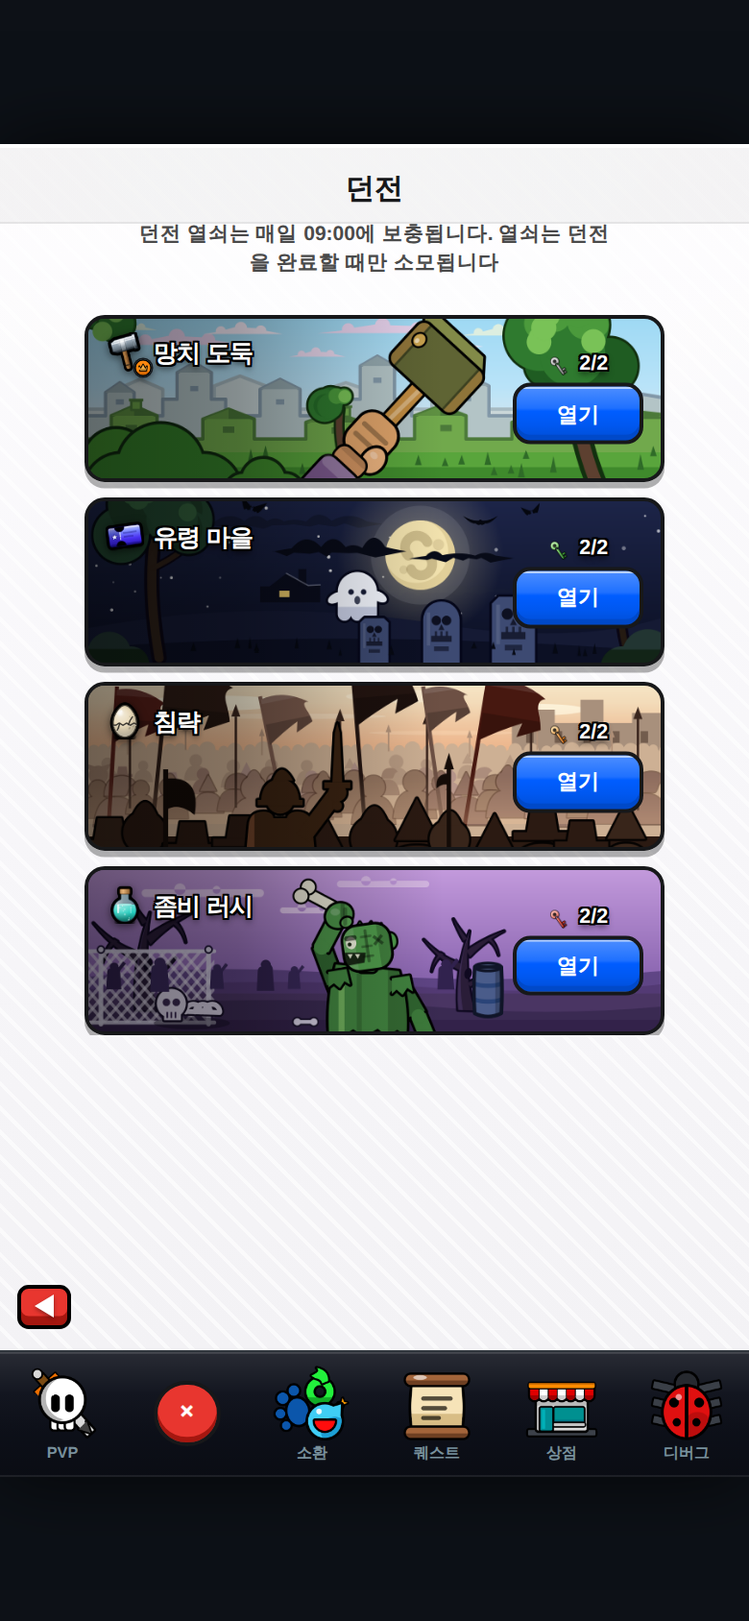
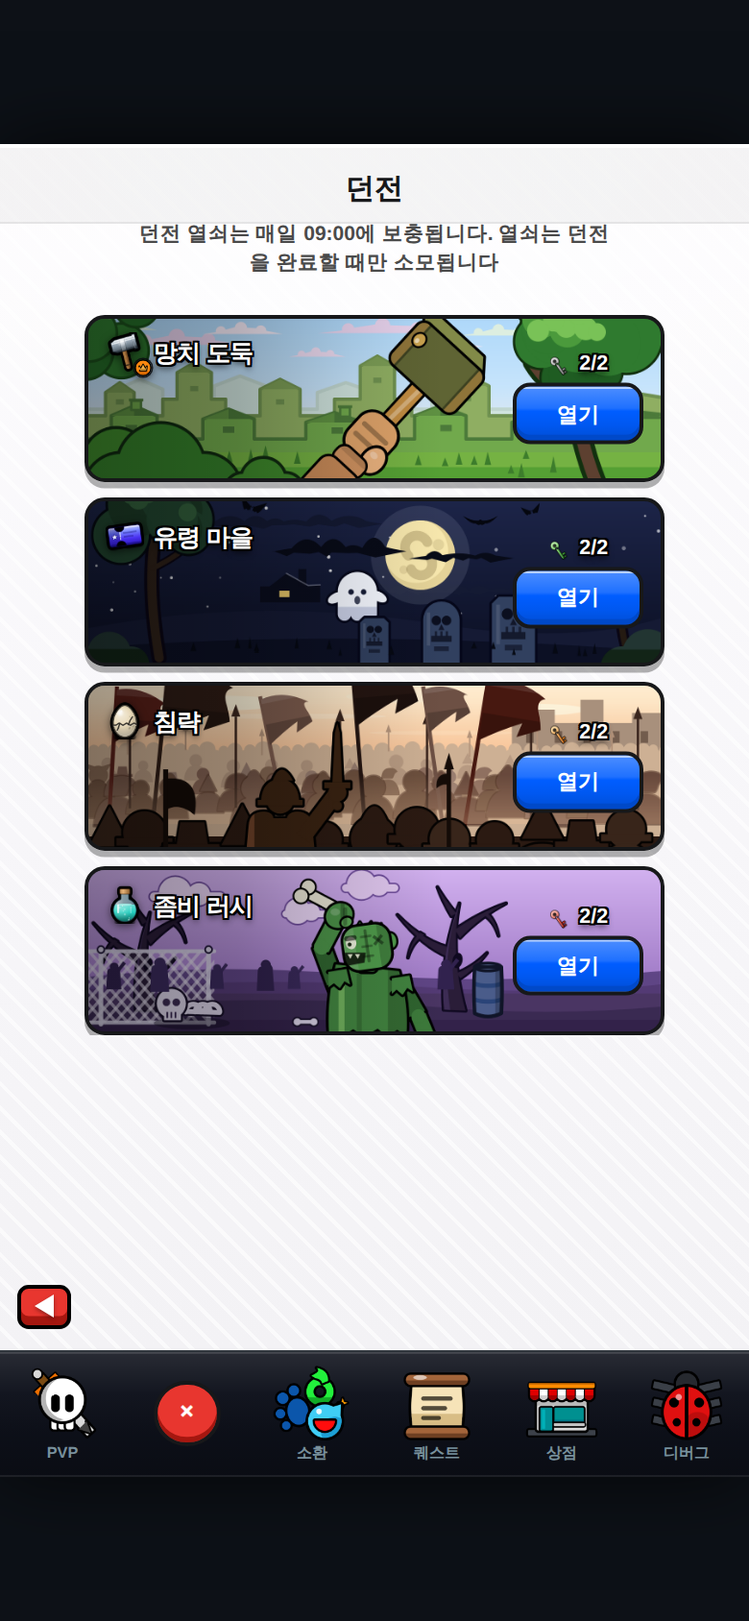
던전 행 R4 비평(70/64) 교집합 반영 — 1행 스카이라인 초록 복귀(원경 헤이즈+중경 올리브, '회색=다른 게임' 2인 치명)+하늘·잔디 채도 상향+주먹 옆 소형 나무 삭제+보라 소매→맨팔, 2행 달 방사광 삭제(플랫 셀)+묘비 한 단 침강, 3행 피치 하늘 고대비 복원+중경 2단 어둡게+전경 둥근 투구 돔(kind6, '삼각=산맥' 해소), 4행 라벤더 파스텔 하늘+구름 합집합 키라인(감김 통일로 관통선 해소)+우측 고목 앵커 확대, 배너 스크림 .46→.36

diff --git a/web/js/icongen.js b/web/js/icongen.js
@@ -3681,7 +3681,8 @@ IconGen._genderSym = function (ctx, S, female) {
        ('망치가 수직으로 박힌 정지 구도 + 손이 없다'). */
     G.draw.dg_hammer = function (ctx, S) {
         const W = S * AR, H = S, R = rnd(11);
-        sky(ctx, W, H, '#9ed9f4', '#dff2ff');
+        /* R4 비평가 2인 공통 '하늘 탁함'(원본 실측 181,214,251): 채도·명도 한 단 위로 */
+        sky(ctx, W, H, '#aed8fa', '#e8f5ff');
         /* 구름 — 납작한 타원 하나면 '분홍 스티커'로 읽힌다(비평가 6차): 혹 3~4개를 겹친 뭉게
            윤곽 + 아래는 평평하게. 원본의 분홍-라벤더 구름 줄. */
         const cloud = (cx, cy, cw, chh, c) => {
@@ -3719,12 +3720,16 @@ IconGen._genderSym = function (ctx, S, female) {
         /* 원경 연회 열(3차 재채점 교집합 ⓒ — '건물 층이 하나로 세어진다'): 청회 열 **뒤**에 한 단
            밝은 연회 열을 깔아 스카이라인을 2단으로 겹친다 — 청회 열의 골 사이(y0.60 부근)로
            비쳐 대기원근 층이 선다. 지붕 경사·높이는 청회 열과 어긋나게. */
+        /* R4 비평가 2인 공통 [치명] '회색 스카이라인 = 다른 게임'(원본 실측 87,152,73 초록 성벽):
+           10차의 '원경 한색(청회)' 결정을 뒤집는다 — 원경 열은 하늘에 녹아드는 옅은 청록 헤이즈로
+           낮추고(내부 윤곽선이 안 보이게 스트로크를 채움과 한 끗 차이로), 중경 열은 올리브그린으로
+           복귀시켜 화면의 지배색을 초록으로 되돌린다. */
         town([[-0.02, 0.56], [0.05, 0.56], [0.05, 0.44], [0.09, 0.38], [0.13, 0.44], [0.13, 0.56],
         [0.22, 0.56], [0.22, 0.42], [0.265, 0.36], [0.31, 0.42], [0.31, 0.56],
         [0.40, 0.56], [0.40, 0.46], [0.45, 0.40], [0.50, 0.46], [0.50, 0.56],
         [0.60, 0.56], [0.60, 0.40], [0.645, 0.34], [0.69, 0.40], [0.69, 0.56],
         [0.79, 0.56], [0.79, 0.44], [0.845, 0.38], [0.90, 0.44], [0.90, 0.56], [1.02, 0.56]],
-            '#c9d6d8', '#a7bac2');
+            '#cfe3dd', '#c0d6cf');
         town([[-0.02, 0.60], [0.03, 0.60], [0.03, 0.46], [0.055, 0.40], [0.08, 0.46], [0.08, 0.60],
         [0.13, 0.60], [0.13, 0.50], [0.155, 0.50], [0.155, 0.34], [0.185, 0.28], [0.215, 0.34], [0.215, 0.50], [0.24, 0.50], [0.24, 0.60],
         [0.30, 0.60], [0.30, 0.44], [0.335, 0.38], [0.37, 0.44], [0.37, 0.60],
@@ -3732,14 +3737,13 @@ IconGen._genderSym = function (ctx, S, female) {
         [0.63, 0.60], [0.63, 0.42], [0.665, 0.36], [0.70, 0.42], [0.70, 0.60],
         [0.76, 0.60], [0.76, 0.48], [0.80, 0.42], [0.84, 0.48], [0.84, 0.60],
         [0.90, 0.60], [0.90, 0.50], [0.95, 0.46], [1.02, 0.50]],
-            '#b3c4c6', '#8298a8');   /* 10차 2인 공통: 원경 열은 아예 한색(청회) — 근경 초록과 색상군까지 갈라 3층을 세운다 */
-        /* 근청회 열 지붕 2톤 + 창(R2 A2·B2 공통 '회색 스카이라인 = 담장/무대 배경막' — 지붕·벽
-           분리와 창이 없으면 건물 판정이 안 선다. 초록 열과 같은 처방을 이 열에도 적용). */
+            '#8fae62', '#6f9150');   /* R4: 중경 열 올리브그린 복귀(원본 정합 — 2인 치명 '회색=다른 게임'. 병렬 세션 R3 의 '담장 판독' 처방(지붕 2톤+창)은 아래에 올리브 팔레트로 이식해 병합) */
+        /* 중경 열 지붕 2톤 + 창(병렬 R3: '지붕·벽 분리와 창이 없으면 건물 판정이 안 선다') */
         [[0.03, 0.055, 0.08, 0.46, 0.40], [0.155, 0.185, 0.215, 0.34, 0.28], [0.30, 0.335, 0.37, 0.44, 0.38],
         [0.475, 0.505, 0.535, 0.30, 0.24], [0.63, 0.665, 0.70, 0.42, 0.36], [0.76, 0.80, 0.84, 0.48, 0.42]].forEach(([lx, px, rx2, by, py]) =>
-            fill(ctx, '#93a7ad', () => { ctx.moveTo(W * lx, H * by); ctx.lineTo(W * px, H * py); ctx.lineTo(W * rx2, H * by); }));
+            fill(ctx, '#7b9c55', () => { ctx.moveTo(W * lx, H * by); ctx.lineTo(W * px, H * py); ctx.lineTo(W * rx2, H * by); }));
         [[0.048, 0.50], [0.178, 0.42], [0.328, 0.50], [0.498, 0.37], [0.655, 0.48], [0.792, 0.52]].forEach(([wx, wy]) =>
-            fill(ctx, '#8298a8', () => ctx.rect(W * wx, H * wy, W * 0.014, H * 0.032)));
+            fill(ctx, '#6f9150', () => ctx.rect(W * wx, H * wy, W * 0.014, H * 0.032)));
         town([[-0.02, 0.74], [0.04, 0.74], [0.04, 0.60], [0.08, 0.54], [0.12, 0.60], [0.12, 0.74],
         [0.20, 0.74], [0.20, 0.62], [0.245, 0.56], [0.29, 0.62], [0.29, 0.74],
         [0.38, 0.74], [0.38, 0.64], [0.43, 0.58], [0.48, 0.64], [0.48, 0.74],
@@ -3766,34 +3770,14 @@ IconGen._genderSym = function (ctx, S, female) {
             ctx.strokeRect(W * cx, H * (cy - 0.055), W * 0.017, H * 0.055);
             fill(ctx, '#4c7a3a', () => ctx.rect(W * (cx - 0.004), H * (cy - 0.068), W * 0.025, H * 0.016));
         });
-        /* 중경 나무 한 그루(잔여 결함 ⓓ — 오클루전 한 겹): 마을 지붕선 **앞**에 서서 건물 일부를
-           가린다 — 겹침이 없으면 스카이라인·지면이 무대 배경막처럼 분리돼 보인다(8차 지적).
-           좌반부 휘도(title-ink)를 안 깎게 x 0.64W(오른쪽 절반), 캐노피는 지붕선(0.54~0.62H)에 걸치는
-           높이만. 뒤이어 그리는 ground(0.82H)가 뿌리를 덮어 접지는 자연히 해결된다. */
-        (() => {
-            /* 이번 런 비평가 B '망치에 눌려 찌그러진 나무'(탱전시): 0.645W 는 망치 머리(0.55~0.67W)
-               바로 밑이라 줄기가 머리에서 삐져나온 것처럼 읽혔다 — 0.44W 로 이동(주먹 왼쪽,
-               스카이라인 골 오클루전은 유지). 좌반부 휘도는 105 로 여유가 커서 안전. */
-            const tx = W * 0.44;
-            [[H * 0.040 + H * 0.026, '#12300f'], [H * 0.040, '#5d4030']].forEach(([lw, c]) => {   // 줄기(키라인 언더레이 — R2 공통 '전경 키라인 비일관')
-                ctx.strokeStyle = c; ctx.lineCap = 'round'; ctx.lineWidth = lw;
-                ctx.beginPath(); ctx.moveTo(tx + H * 0.02, H * 0.86); ctx.quadraticCurveTo(tx - H * 0.02, H * 0.70, tx, H * 0.56); ctx.stroke();
-                ctx.lineCap = 'butt';
-            });
-            const blobs = [];
-            for (let i = 0; i < 4; i++)                                    // 캐노피(아래 어둡게)
-                blobs.push([tx + H * (-0.11 + R() * 0.22), H * (0.485 + R() * 0.075), H * (0.065 + R() * 0.04), i % 2 ? '#2f7a2f' : '#256c28']);
-            for (let i = 0; i < 3; i++)                                    // 윗부분 밝은 혹 + 림
-                blobs.push([tx + H * (-0.08 + R() * 0.16), H * (0.465 + R() * 0.045), H * (0.035 + R() * 0.025), i === 2 ? '#79c257' : '#4b9a3c']);
-            ctx.strokeStyle = '#12300f'; ctx.lineWidth = H * 0.026;        // 합집합 키라인(덤불 화법 — 채움이 안쪽 획을 덮는다)
-            blobs.forEach(([x, y, r]) => { ctx.beginPath(); ctx.arc(x, y, r, 0, Math.PI * 2); ctx.stroke(); });
-            blobs.forEach(([x, y, r, c]) => fill(ctx, c, () => ctx.arc(x, y, r, 0, Math.PI * 2)));
-        })();
-        ground(ctx, W, H, H * 0.82, '#59a53c');
-        ground(ctx, W, H, H * 0.91, '#3f8a2c');
-        for (let i = 0; i < 26; i++) {                                    // 풀포기
+        /* (8차 '오클루전 한 겹'으로 넣었던 중경 소형 나무는 R4 에서 **삭제** — 비평가 2인 공통
+           '주인공(망치) 옆 시선 분산 + 원본에 없는 발명'. 오클루전은 우측 큰 나무·모서리 덤불이
+           이미 감당한다. R() 호출 수가 줄어 뒤 소품 배치가 달라지지만 전부 고정 수열이라 결정적. */
+        ground(ctx, W, H, H * 0.82, '#75b243');
+        ground(ctx, W, H, H * 0.91, '#55a034');
+        for (let i = 0; i < 26; i++) {                                    // 풀포기 — R4: 지면과 함께 황록으로(원본 실측 145,188,69)
             const x = R() * W, y = H * (0.84 + R() * 0.14), h = H * (0.05 + R() * 0.05);
-            fill(ctx, '#2f6b28', () => { ctx.moveTo(x, y); ctx.lineTo(x + H * 0.02, y - h); ctx.lineTo(x + H * 0.04, y); });
+            fill(ctx, '#3d7d2c', () => { ctx.moveTo(x, y); ctx.lineTo(x + H * 0.02, y - h); ctx.lineTo(x + H * 0.04, y); });
         }
         // 오른쪽 큰 나무 — 줄기 + 잎 덩어리(어두운 채움 + 연두 림 혹). [열기] 가 일부를 덮는 건 원본과 같다.
         (() => {
@@ -3887,9 +3871,10 @@ IconGen._genderSym = function (ctx, S, female) {
            풀밭 한가운데서 뚝 끊기면 잘린 손이 떠 있는 그림이 된다. */
         ink(ctx, S, rrect(ctx, S, -0.102, 0.132, 0.204, 0.118, 0.048), '#cf9260', 0.028);
         on(ctx, rrect(ctx, S, -0.102, 0.132, 0.204, 0.038, 0.019), 'rgba(0,0,0,.12)');    // 주먹 밑 접힘 음영 한 줄(경계는 명도로만)
-        ink(ctx, S, rrect(ctx, S, -0.135, 0.238, 0.270, 0.580, 0.060), '#7d5a8f', 0.030); // 소매(보라 튜닉) — 프레임 하단 크롭 밖까지
-        on(ctx, rrect(ctx, S, -0.135, 0.238, 0.270, 0.075, 0.036), 'rgba(255,255,255,.20)'); // 소매 접힘 밴드(팔꿈치 쪽 광)
-        on(ctx, rrect(ctx, S, -0.135, 0.560, 0.270, 0.258, 0.060), 'rgba(0,0,0,.16)');    // 소매 하단 그늘(플랫 사다리꼴 지적 — 명암 한 단)
+        /* R4 비평가 2인 공통 '보라 소매는 원본에 없는 발명(원본은 맨팔)': 소매를 팔뚝 살빛으로
+           되돌린다. 9차 '절단된 주먹' 처방(프레임 밖까지 잇는다)은 형태 그대로 유지 — 색만 살로. */
+        ink(ctx, S, rrect(ctx, S, -0.135, 0.238, 0.270, 0.580, 0.060), '#c88a58', 0.030); // 팔뚝(맨팔) — 프레임 하단 크롭 밖까지
+        on(ctx, rrect(ctx, S, -0.135, 0.560, 0.270, 0.258, 0.060), 'rgba(0,0,0,.14)');    // 팔뚝 하단 그늘(명암 한 단)
         ctx.restore();
         ctx.save();                                                                       // 머리 — 자루 끝(우상단)
         // 머리 상자는 세로(local y)가 장축 = 자루와 직교하려면 회전각이 자루 기울기 그대로여야 한다.
@@ -3957,17 +3942,16 @@ IconGen._genderSym = function (ctx, S, female) {
         streak(W * 0.22, H * 0.14, W * 0.26, H * 0.030, '#141a33');        // 뒤 구름 줄 2개(달 뒤·한 단 밝게)
         streak(W * 0.48, H * 0.55, W * 0.24, H * 0.026, '#141a33');
         const mx = W * 0.58, my = H * 0.34, mr = H * 0.21;                // 달
-        fill(ctx, 'rgba(190,200,225,.13)', () => ctx.arc(mx, my, mr * 1.42, 0, Math.PI * 2));   // 회청 헤일로 원반
-        const g = ctx.createRadialGradient(mx, my, mr * 0.6, mx, my, mr * 2.4);
-        g.addColorStop(0, 'rgba(247,228,160,.30)'); g.addColorStop(1, 'rgba(247,228,160,0)');
-        ctx.fillStyle = g; ctx.fillRect(0, 0, W, H);
-        fill(ctx, '#f2e2ae', () => ctx.arc(mx, my, mr, 0, Math.PI * 2));
+        fill(ctx, 'rgba(190,200,225,.13)', () => ctx.arc(mx, my, mr * 1.42, 0, Math.PI * 2));   // 회청 헤일로 원반(플랫 — 원본 실측 사양)
+        /* (방사형 발광 그라디언트는 R4 에서 삭제 — 비평가 A '플랫 셀 채색 원칙 정면 위반'.
+           원본 달은 플랫 원반 + 플랫 헤일로 원반뿐이다. 달 본체도 원본 실측(255,233,159) 쪽으로 밝힘.) */
+        fill(ctx, '#f7e7ad', () => ctx.arc(mx, my, mr, 0, Math.PI * 2));
         ctx.save();
         ctx.beginPath(); ctx.arc(mx, my, mr, 0, Math.PI * 2); ctx.clip();
         // 우하단 크레센트 음영 먼저(비평가 4차 '매끈한 원') — 소용돌이는 그 위에 얹는다
         ctx.fillStyle = 'rgba(150,120,60,.18)'; ctx.fillRect(mx - mr, my - mr, mr * 2, mr * 2);
         ctx.beginPath(); ctx.arc(mx - mr * 0.12, my - mr * 0.12, mr * 0.92, 0, Math.PI * 2);
-        ctx.fillStyle = '#f2e2ae'; ctx.fill();
+        ctx.fillStyle = '#f7e7ad'; ctx.fill();
         /* 소용돌이 무늬(원본 달의 'S' 마킹) — 3차 A '숫자 6으로 읽힘': 원본 사양이라 각인 자체는
            유지하되(채택 금지 목록 — 크레이터 전면 교체 아님), 한 획 갈고리 → **위/아래 반원 두 획**
            으로 갈라 진짜 S 리듬으로 재조형. 폐곡선 느낌이 없어져 숫자로 안 읽힌다.
@@ -4098,7 +4082,7 @@ IconGen._genderSym = function (ctx, S, female) {
                 ? () => { ctx.moveTo(x, y + h); ctx.lineTo(x, y + w * 0.28); ctx.lineTo(x + w * 0.16, y + w * 0.12); ctx.lineTo(x + w * 0.84, y + w * 0.12); ctx.lineTo(x + w, y + w * 0.28); ctx.lineTo(x + w, y + h); ctx.closePath(); }
                 : () => { ctx.moveTo(x, y + h); ctx.lineTo(x, y + w * 0.5); ctx.arc(x + w * 0.5, y + w * 0.5, w * 0.5, Math.PI, 0); ctx.lineTo(x + w, y + h); ctx.closePath(); };
             ctx.beginPath(); p(); ctx.strokeStyle = '#05071a'; ctx.lineWidth = H * 0.030; ctx.stroke();   // R2 공통 '전경 키라인 비일관' — 굵은 근흑 키라인(스트로크→채움 순서로 바깥만 남긴다)
-            ctx.beginPath(); p(); ctx.fillStyle = '#3d4a72'; ctx.fill();   // 밝은 회청은 밤 무드에서 튄다(비평가 6차) — 한 단 가라앉힘
+            ctx.beginPath(); p(); ctx.fillStyle = '#31405f'; ctx.fill();   // R4 비평가 2인 공통 '묘비가 여전히 팝': 6차의 한 단에 이어 한 단 더 — 어두운 남색 쪽으로
             fill(ctx, 'rgba(8,10,24,.9)', () => ctx.arc(x + w * 0.36, y + w * 0.52, w * 0.13, 0, Math.PI * 2));             // 해골 각인(두 눈 + 코)
             fill(ctx, 'rgba(8,10,24,.9)', () => ctx.arc(x + w * 0.64, y + w * 0.52, w * 0.13, 0, Math.PI * 2));
             fill(ctx, 'rgba(8,10,24,.75)', () => { ctx.moveTo(x + w * 0.5, y + w * 0.62); ctx.lineTo(x + w * 0.42, y + w * 0.78); ctx.lineTo(x + w * 0.58, y + w * 0.78); });
@@ -4192,7 +4176,9 @@ IconGen._genderSym = function (ctx, S, female) {
        '개별 인물이 안 읽힌다'였다 — 톱니 폴리곤 열을 버리고 인물 단위로 다시 그린다. */
     G.draw.dg_invasion = function (ctx, S) {
         const W = S * AR, H = S, R = rnd(37);
-        sky(ctx, W, H, '#f7e6c6', '#d98f5c');   // 지평선을 진한 주황으로 — 옅으면 새벽 무드가 죽는다(비평가 5차)
+        /* R4 비평가 B [치명] '밝은 피치 하늘(원본 실측 255,214,180) vs 새까만 군중의 고대비 붕괴' +
+           A '탁한 갈보라 침전': 하늘을 밝은 피치로 올린다. 군중 명도는 아래서 함께 내린다. */
+        sky(ctx, W, H, '#ffeed2', '#f2a869');
         const cloud = (cx, cy, cw, chh, c) => fill(ctx, c, () => ctx.ellipse(cx, cy, cw, chh, 0, 0, Math.PI * 2));
         cloud(W * 0.22, H * 0.12, W * 0.13, H * 0.045, '#fdf3da');
         cloud(W * 0.55, H * 0.08, W * 0.10, H * 0.038, '#fbecd0');
@@ -4201,7 +4187,7 @@ IconGen._genderSym = function (ctx, S, female) {
         fill(ctx, 'rgba(255,238,206,.35)', () => ctx.ellipse(W * 0.62, H * 0.30, W * 0.13, H * 0.013, 0, 0, Math.PI * 2));
         (() => {                                                          // 중단 장밋빛 띠 — 노을 다단 전환(비평가 재채점 '2단 그라디언트 납작')
             const hz = ctx.createLinearGradient(0, H * 0.12, 0, H * 0.50);
-            hz.addColorStop(0, 'rgba(244,146,100,0)'); hz.addColorStop(1, 'rgba(244,146,100,.38)');   // 새벽 주황-핑크를 진하게(비평가 3차 '워시아웃')
+            hz.addColorStop(0, 'rgba(244,146,100,0)'); hz.addColorStop(1, 'rgba(244,146,100,.24)');   // R4: .38→.24 — 하늘 명도를 잡아먹지 않게(고대비 복원과 한 벌)
             ctx.fillStyle = hz; ctx.fillRect(0, 0, W, H);
         })();
         /* 우상단 성곽 실루엣 — 원본은 우측 모서리에 성벽/망루가 걸쳐 '포위된 도시' 서사를 세운다
@@ -4266,6 +4252,8 @@ IconGen._genderSym = function (ctx, S, female) {
             }
             if (kind === 4)                                                // 볏 — 정수리 지느러미 한 장(키를 올려 실루엣 분화)
                 paths.push(() => { ctx.moveTo(x - r * 0.58, y - r * 0.72); ctx.quadraticCurveTo(x + r * 0.05, y - r * 2.15, x + r * 0.62, y - r * 0.72); ctx.closePath(); });
+            if (kind === 6)                                                // R4: 둥근 투구 돔 + 넓은 챙 — 전경 '삼각 융기=산맥' 오독(2인 공통) 해소용 기본 종
+                paths.push(() => ctx.rect(x - r * 1.32, y + r * 0.26, r * 2.64, r * 0.36));
             paths.push(() => { ctx.moveTo(x - r * w, y + r * 3.2); ctx.quadraticCurveTo(x - r * (w - 0.2), y + r * 0.7, x, y + r * 0.75); ctx.quadraticCurveTo(x + r * (w - 0.2), y + r * 0.7, x + r * w, y + r * 3.2); ctx.closePath(); });   // 어깨(넓고 낮게)
             if (oc) {
                 ctx.strokeStyle = oc; ctx.lineWidth = ow || H * 0.016; ctx.lineJoin = 'round';
@@ -4279,8 +4267,10 @@ IconGen._genderSym = function (ctx, S, female) {
            대기원근 3단이 선다(비평가 4차 '단일 톤 플랫 매스'). 뿔 투구는 1/8 로 드물게. */
         /* 중경을 명도 2단으로 분리(2차 재채점 2인 공통 '동일 명도 블롭 뭉개짐'):
            위 밴드(원경 쪽)는 +10% 밝은 색군, 아래 밴드는 기존 색군 — 겹침은 유지. */
-        const MIDC_HI = ['#ac8d7c', '#a07e6f', '#b4948a', '#a48570'];
-        const MIDC = ['#9b7b6b', '#8d6c5e', '#a5847a', '#93745f'];         // 색·키·크기를 함께 흔들어 타일링 패턴을 깬다
+        /* R4 비평가 2인 공통 '중경이 밝은 황갈 덩어리로 떠 보임(원본은 짙은 회흑)': 두 밴드를
+           나란히 한 단 어둡게 — 밝은 하늘과의 대비로 '검은 군중의 바다'를 세운다. 2단 간격은 유지. */
+        const MIDC_HI = ['#8f7060', '#836253', '#997e70', '#886a55'];
+        const MIDC = ['#755749', '#68493c', '#7f6055', '#6d503e'];         // 색·키·크기를 함께 흔들어 타일링 패턴을 깬다
         const pickKind = k =>                                              // 6종 혼합(ⓐ) — 뾰족·뿔은 드물게(9차 '삼각형 정체불명')
             k < 0.28 ? 0 : k < 0.42 ? 1 : k < 0.62 ? 3 : k < 0.78 ? 4 : k < 0.92 ? 5 : 2;
         /* R1 비평가 2인 공통 '중경 군중 뭉개짐/외곽선 부재': 아래 밴드에 어두운 갈색 얇은 윤곽을
@@ -4336,7 +4326,10 @@ IconGen._genderSym = function (ctx, S, female) {
            ⑵ 채움을 한 단 밝혀(#241612→#2b1a12 계열) 근흑 키라인(#050302)이 갈리게 한다 —
            종전엔 채움·키라인이 다 근흑이라 윤곽 정보가 0이었다. */
         for (let i = 0; i < 13; i++) {
-            figure(W * (i / 13 + 0.015 + R() * 0.025), H * (0.875 + R() * 0.08), 1.75 + R() * 0.8, i % 4 ? '#2b1a12' : '#38251a', [1, 4, 5][(R() * 3) | 0], '#050302', 1.6 + R() * 0.7, H * 0.026);   // 머리가 하단 크롭에 잘리면 삼각 톱니로 읽힌다 — 0.875H · 전경 키라인 굵기 통일 · R3 공통 '뿔=고양이 귀/배트맨': 앞 열에서 뿔 종(kind 2) 제외
+            /* R4 비평가 2인 공통 '전경이 삼각형 산/바위로 읽힘': 사람 단서는 **둥근 투구 돔+챙**
+               (kind 6)이 즉독이라 6을 주종(과반)으로, 뾰족·볏·챙은 악센트로만(민머리 0 금지 유지,
+               병렬 R3 '뿔=고양이 귀' — 뿔 종(kind 2)도 제외 유지). */
+            figure(W * (i / 13 + 0.015 + R() * 0.025), H * (0.875 + R() * 0.08), 1.75 + R() * 0.8, i % 4 ? '#2b1a12' : '#38251a', [6, 6, 4, 6, 5, 1][(R() * 6) | 0], '#050302', 1.6 + R() * 0.7, H * 0.026);   // 머리가 하단 크롭에 잘리면 삼각 톱니로 읽힌다 — 0.875H · R2 공통: 전경 키라인 굵기 통일
         }
         /* 근경 주역 1기(R1 A·B 공통 '초점 부재' → R2 A2·B2 공통 '주역이 배경에 묻힘 + 이 행만
            무키라인'): 다른 행 주인공 문법으로 **승격** — 근흑 키라인 + 채움 명도 분리 + 노을
@@ -4428,21 +4421,32 @@ IconGen._genderSym = function (ctx, S, female) {
     /* 🧟 좀비 러시 — 보라 하늘 + 고목 2그루 + 철망 울타리 + 드럼통 */
     G.draw.dg_zombie = function (ctx, S) {
         const W = S * AR, H = S, R = rnd(53);
-        sky(ctx, W, H, '#c49bdd', '#6f4c9b');
+        /* R4 비평가 B '원본은 밝은 라벤더(실측 204,177,255) — 클론은 밤처럼 어둡다': 파스텔로 올린다 */
+        sky(ctx, W, H, '#d3b2f0', '#8a63b5');
         /* 구름 = 납작한 **가로 밴드**(끝 둥근 막대). 종전의 큰 달무리 원 + 타원 구름은 '정체불명의
            흰 얼룩이 떠 있다'로 읽혔다(비평가 7차) — 원본 4행 하늘도 수평 구름 밴드다. */
         /* 9차 2인 공통 '스켈레톤 로딩 바' 오독: 원본이 수평 구름 밴드인 건 실측 확정이라 밴드는
            유지하되, **윗변에 뭉게 혹 2개**를 얹어 '구름'으로 판독되게 한다(균일 캡슐 금지). */
-        const band = (bx, by, bw, bh2, c) => fill(ctx, c, () => {
-            ctx.moveTo(bx, by); ctx.arc(bx, by + bh2 / 2, bh2 / 2, Math.PI * 1.5, Math.PI * 0.5, true);
-            ctx.lineTo(bx + bw, by + bh2); ctx.arc(bx + bw, by + bh2 / 2, bh2 / 2, Math.PI * 0.5, Math.PI * 1.5, true);
-            ctx.closePath();
-            ctx.arc(bx + bw * 0.30, by, bh2 * 0.72, 0, Math.PI * 2);       // 뭉게 혹(왼쪽 크게)
-            ctx.arc(bx + bw * 0.62, by + bh2 * 0.10, bh2 * 0.50, 0, Math.PI * 2);   // 뭉게 혹(오른쪽 작게)
-        });
-        band(W * 0.10, H * 0.13, W * 0.20, H * 0.048, '#dcc2e8');
-        band(W * 0.44, H * 0.08, W * 0.15, H * 0.040, '#d4b6e2');
-        band(W * 0.34, H * 0.24, W * 0.11, H * 0.036, '#dcc2e8');
+        /* R4 비평가 A '외곽선 없는 소프트 블롭 — 키라인 원칙 위반': 구름에도 합집합 키라인
+           (스트로크→채움 2패스, 덤불 화법). 하늘이 파스텔로 밝아져 채움도 한 단 진하게 갈랐다. */
+        /* ⚠ 키라인을 두르는 순간 '가는 캡슐 + 작은 혹'은 '구슬 꿴 철사'로 읽힌다(이번 런 캡처
+           확인) — 밴드를 짧고 두껍게, 혹 반경을 밴드 두께의 1.3~1.9배로 키워 뭉게 덩어리로. */
+        const band = (bx, by, bw, bh2, c) => {
+            const p = () => {
+                ctx.moveTo(bx, by); ctx.arc(bx, by + bh2 / 2, bh2 / 2, Math.PI * 1.5, Math.PI * 0.5, true);
+                ctx.lineTo(bx + bw, by + bh2); ctx.arc(bx + bw, by + bh2 / 2, bh2 / 2, Math.PI * 0.5, Math.PI * 1.5, true);
+                ctx.closePath();
+                /* 혹 원은 캡슐과 같은 반시계 감김으로 — 감김이 갈리면 nonzero 규칙에서 겹침이
+                   구멍이 되어 캡슐 윗변 스트로크가 혹 안으로 비쳐 '선 관통'이 된다(캡처 확인). */
+                ctx.arc(bx + bw * 0.32, by + bh2 * 0.10, bh2 * 1.90, 0, Math.PI * 2, true);   // 뭉게 혹(왼쪽 크게)
+                ctx.arc(bx + bw * 0.68, by + bh2 * 0.22, bh2 * 1.30, 0, Math.PI * 2, true);   // 뭉게 혹(오른쪽 작게)
+            };
+            ctx.beginPath(); p(); ctx.strokeStyle = '#6c4a99'; ctx.lineWidth = H * 0.018; ctx.stroke();
+            fill(ctx, c, p);
+        };
+        band(W * 0.115, H * 0.15, W * 0.115, H * 0.052, '#e6d2f2');
+        band(W * 0.45, H * 0.10, W * 0.085, H * 0.046, '#dfc6ee');
+        band(W * 0.345, H * 0.26, W * 0.065, H * 0.040, '#e6d2f2');
         /* 배경 능선 2겹(잔여 결함 ⓔ): 하늘→지면이 한 번에 끊겨 원경이 없었다(8차 '능선 3단 명도').
            멀수록 밝게(대기원근) — 뒤 #5f4585 → 앞 #533a74 → 기존 지면 #4a3563 으로 3단이 선다. */
         fill(ctx, '#5f4585', () => { ctx.moveTo(0, H * 0.66); ctx.quadraticCurveTo(W * 0.22, H * 0.575, W * 0.46, H * 0.645); ctx.quadraticCurveTo(W * 0.72, H * 0.71, W, H * 0.625); ctx.lineTo(W, H); ctx.lineTo(0, H); });
@@ -4487,7 +4491,8 @@ IconGen._genderSym = function (ctx, S, female) {
         };
         // 오른쪽 고목은 x 0.70W 안쪽으로 — 0.86W 에 두면 가지가 열쇠 필과 [열기] 를 관통해
         // '검은 긁힘'으로 얹힌다(잔여 결함 ⓑ). 우측 28% 열은 UI 몫이라 키 큰 소품을 안 넣는다.
-        tree(W * 0.10, 1.05); tree(W * 0.66, 0.85);
+        // R4 비평가 A '우측 앵커 왜소': 0.85→1.15 로 키운다(x 0.64W — 가지 최대 도달 ≈0.73W 로 UI 열 직전).
+        tree(W * 0.10, 1.05); tree(W * 0.64, 1.15);
         /* 해골+갈비뼈 그리기 — 원본 좌하단의 그 잔해. 흩어진 막대 뼈 셋보다 '좀비 던전'을 한눈에
            세운다. ⚠ 호출은 철망 **뒤가 아니라 앞**(R1 B '해골이 철망 메쉬에 덮여 바래 사실상 안
            보인다') — 정의만 여기 두고 철망 다음에 부른다. */

diff --git a/web/css/style.css b/web/css/style.css
@@ -1722,7 +1722,9 @@ body {
    배경 평균색으로 재면 과소평가된다(그 계측이 종전 .86 스크림을 불렀다). */
 .dg-banner::before {
     content: ''; position: absolute; inset: 0; z-index: 0; pointer-events: none;
-    background: linear-gradient(90deg, rgba(0,0,0,.46) 0%, rgba(0,0,0,.34) 26%, rgba(0,0,0,.14) 46%, rgba(0,0,0,0) 62%);
+    /* R4(2026-08-19 UI): .46→.36 한 단 완화 — 비평가 2인 공통 '클론 팔레트가 원본보다 탁하다'의
+       일부가 이 스크림이다. 제목 대비는 글자 키라인(21:1)이 보증하므로 스크림은 무드용 최소만. */
+    background: linear-gradient(90deg, rgba(0,0,0,.36) 0%, rgba(0,0,0,.26) 26%, rgba(0,0,0,.10) 46%, rgba(0,0,0,0) 62%);
 }
 .dg-banner .dg-info, .dg-banner .dg-right { position: relative; z-index: 1; }
 /* 제목 왼쪽 보상 재화 아이콘 — 글자와 같은 줄에 인라인. 줄상자를 키우지 않게 음수 마진을 준다
